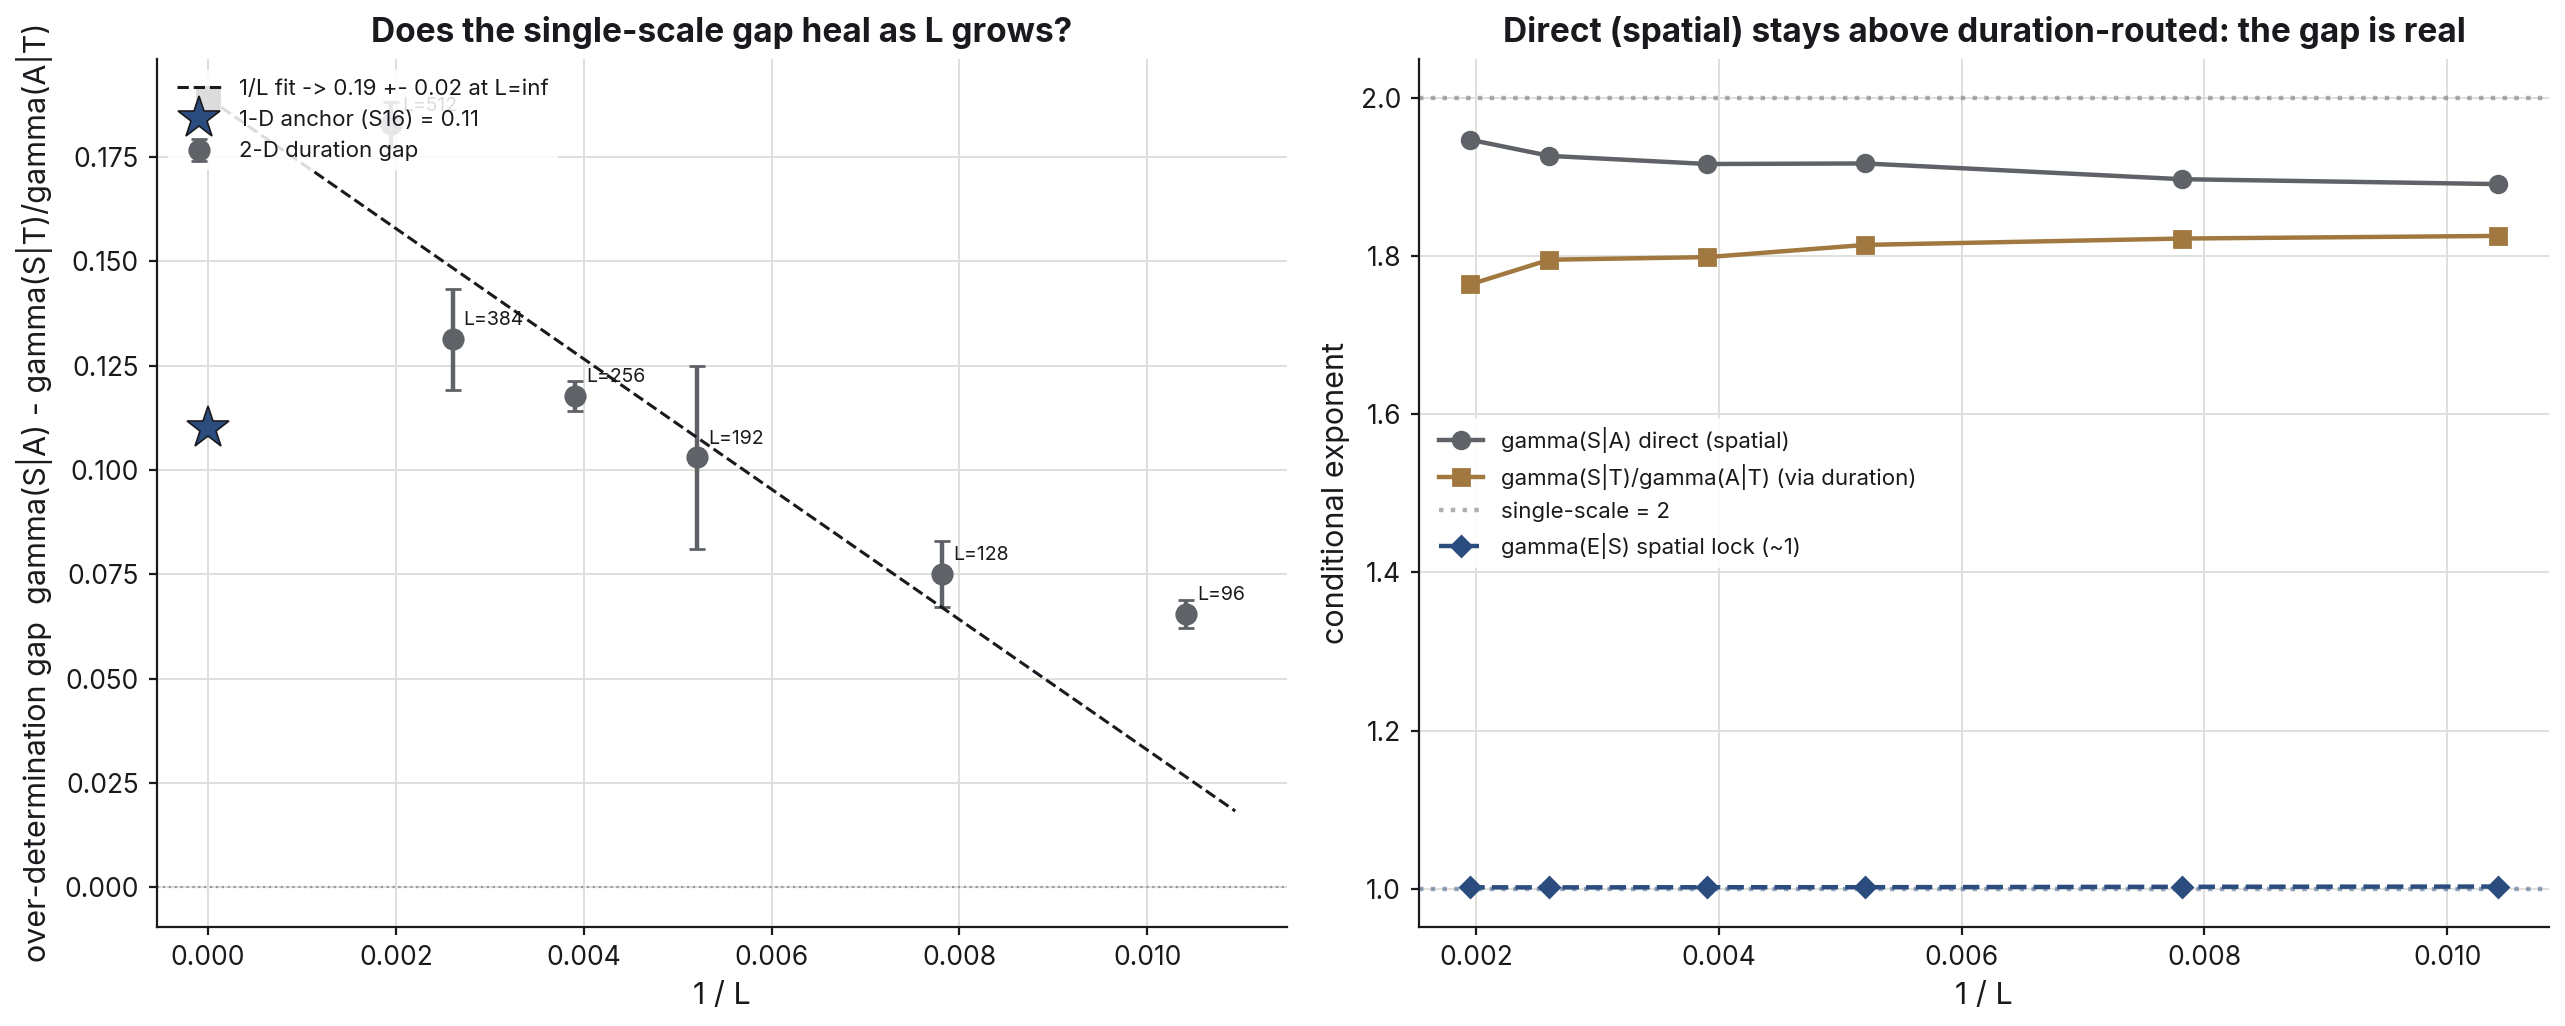
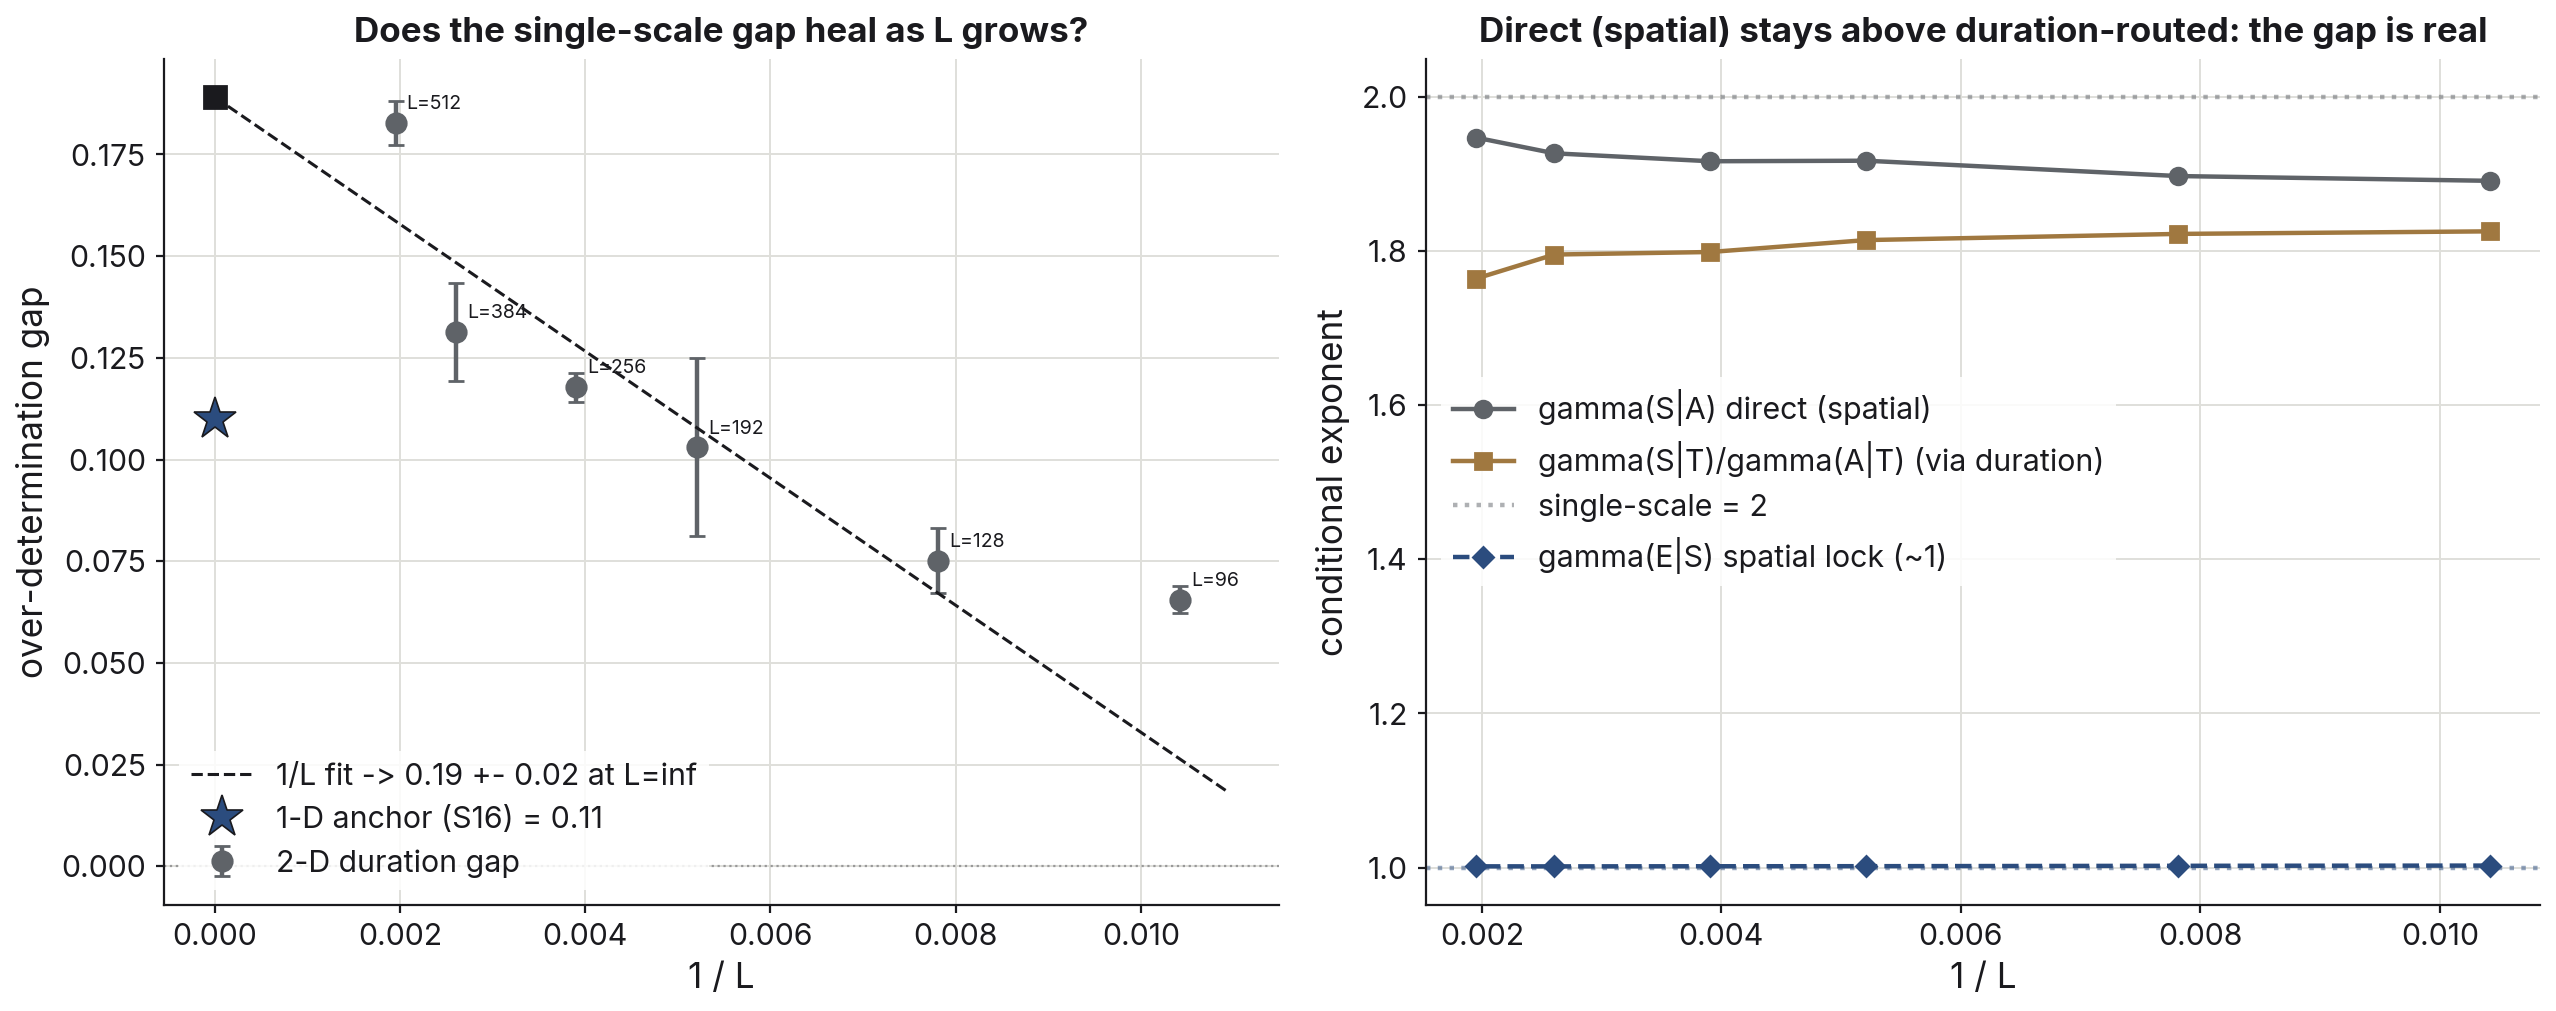
capstone: last two figures onto the site style -- the page is uniform
many_wrongs (Figure 1) fully re-rendered under figstyle at 1.45x/1.10x,
retiring the archive-fallback treatment: site palette replaces the June
default-matplotlib red/orange, text lands at 14px effective, and the
run reproduced F82 (slope -0.523 vs predicted -0.5). Its overlong
x-label is shortened (plot-only edit). duration_closure re-rendered at
1.15x with its legend moved off the L=512 point and the formula-length
y-label shortened to plain words (plot-only edits); S17 reproduced
(intercept 0.19 +- 0.02, anchor 0.11). Figure 1 caption drops the
now-false archive note. All 18 site figures now come off one style
sheet. Colophon and log synced (156.5 h / 40 days / 182 commits).

diff --git a/docs/index.html b/docs/index.html
@@ -62,7 +62,7 @@
   <div class="stat-strip" aria-label="Project statistics">
     <div class="stat"><span class="num">3</span><span class="label">systems</span></div>
     <div class="stat"><span class="num">123</span><span class="label">findings</span></div>
-    <div class="stat"><span class="num">156.0</span><span class="label">hours</span></div>
+    <div class="stat"><span class="num">156.5</span><span class="label">hours</span></div>
     <div class="stat"><span class="num">133</span><span class="label">scripts</span></div>
     <div class="stat"><span class="num">9</span><span class="label">self-tests</span></div>
     <div class="stat"><span class="num">10</span><span class="label">corrections</span></div>
@@ -85,7 +85,7 @@
 
   <figure class="wide">
     <img src="figures/many_wrongs_1.png" alt="Three panels. Left: cross-seed RMS heading error versus flock size N on log-log axes, falling along a one-over-square-root-of-N reference line with fitted slope minus 0.52. Middle: accuracy toward the true goal improving toward 1.0 as N grows. Right: heading error versus per-agent noise at N = 250, flat until roughly 60 degrees of per-agent error, then rising sharply.">
-    <figcaption><span class="figno">Figure 1.</span> <strong>Accuracy rises with group size.</strong> Heading error falls as 1/&radic;N (fitted slope &minus;0.52 against the predicted &minus;0.5, left), so accuracy improves as the flock grows (middle); the averaging holds until per-agent noise reaches a ceiling near &sigma; &asymp; 1.3 rad (right). Shown in its archive rendering: regenerating this figure's data exceeds the site's per-figure compute budget, so the committed original is kept.</figcaption>
+    <figcaption><span class="figno">Figure 1.</span> <strong>Accuracy rises with group size.</strong> Heading error falls as 1/&radic;N (fitted slope &minus;0.52 against the predicted &minus;0.5, left), so accuracy improves as the flock grows (middle); the averaging holds until per-agent noise reaches a ceiling near &sigma; &asymp; 1.3 rad (right).</figcaption>
   </figure>
 
   <p>Correlation is the one thing that beats it. Make the errors correlated, even slightly, and the improvement stops at a floor proportional to sigma times the square root of the correlation. No group size pushes through that floor. Misinformation is the same measurement run adversarially. Planted at random it is nearly harmless (heading accuracy 0.998 with half the flock misinformed), but a coordinated falsehood captures the group at exactly parity. <strong>What damages a collective estimator is the correlation of its errors, not the amount.</strong></p>
@@ -282,7 +282,7 @@
 
 <section id="colophon" class="colophon">
   <h2>Colophon</h2>
-  <p>123 documented findings (94 flocking, 22 sandpile, 7 earthquake) &middot; 156.0 logged hours over 40 research days &middot; 181 commits &middot; 150 figures &middot; 133 Python scripts. Built with NumPy, numba, and matplotlib. The performance engines (a 600&times; active-list sandpile engine, a 251&times; vectorized predator force) are validated bit-for-bit against their reference implementations, and every engine ships self-tests. Every figure on this page regenerates from a named script in the <a href="https://github.com/ninjahawk/swarmsim">repository</a>. Textbook: Paul Charbonneau, <em>Natural Complexity</em> (Princeton, 2017); flocking model from Silverberg et al., PRL 110, 228701 (2013). Findings, full-detail reports, and the day-by-day research log are in the repository. AI tools (Anthropic's Claude) were used as a coding and analysis assistant throughout, documented per session in the research log; the scientific decisions and interpretations are my own.</p>
+  <p>123 documented findings (94 flocking, 22 sandpile, 7 earthquake) &middot; 156.5 logged hours over 40 research days &middot; 182 commits &middot; 150 figures &middot; 133 Python scripts. Built with NumPy, numba, and matplotlib. The performance engines (a 600&times; active-list sandpile engine, a 251&times; vectorized predator force) are validated bit-for-bit against their reference implementations, and every engine ships self-tests. Every figure on this page regenerates from a named script in the <a href="https://github.com/ninjahawk/swarmsim">repository</a>. Textbook: Paul Charbonneau, <em>Natural Complexity</em> (Princeton, 2017); flocking model from Silverberg et al., PRL 110, 228701 (2013). Findings, full-detail reports, and the day-by-day research log are in the repository. AI tools (Anthropic's Claude) were used as a coding and analysis assistant throughout, documented per session in the research log; the scientific decisions and interpretations are my own.</p>
   <p>References:</p>
   <ol class="refs">
     <li>P. Charbonneau, <em>Natural Complexity: A Modeling Handbook</em>, Princeton University Press (2017).</li>

diff --git a/logs.html b/logs.html
@@ -415,8 +415,8 @@
       </tr>
       <tr data-date="2026-07-19">
         <td class="date-cell">2026-07-19</td>
-        <td class="hours-cell">1.50</td>
-        <td>Figure legibility pass on the live site: measured every figure's effective on-page text size, re-rendered the four smallest under the shared style with a new font-scale option (scripts untouched, numbers reproduced), inspected all eighteen at full resolution, widened the many-wrongs display, and fixed a doubled percent sign in a legend.</td>
+        <td class="hours-cell">2.00</td>
+        <td>Figure legibility and consistency pass on the live site: measured every figure's effective on-page text size, inspected all eighteen at full resolution, re-rendered six under the shared style with a new font-scale option (all numbers reproduced; script plot code touched only for two overlong labels and one legend position), and brought the last archive-styled figure onto the site palette.</td>
       </tr>
     </tbody>
     <tfoot>
@@ -607,7 +607,7 @@
     },
     {
       date: "2026-07-19",
-      body: "A short follow-up day. Yesterday's teaser rebuild set a legibility bar, so today I measured the whole page against it: for each of the eighteen figures, how large does its base 11-point type actually land on screen at the width the page displays it? Most figures sit at a comfortable 12.5 to 20 pixels. Three fell short of 12.\n\nThe two worst were casualties of their own native width. The filament-geometry centerpiece and the typical-versus-tail fattening figure render at 14.8 and 15.8 inches across, which scaled their on-page text down to about 10 pixels. The shared figure style gained a font-scale option settable from the environment, defaulting to exactly the old behavior, and both figures were re-rendered through the same untouched-script harness at 1.22x and 1.40x. It took three tries: the first scale-up collided the long panel titles, so titles now scale separately from body text. Both re-runs recomputed their measurements from scratch and reproduced the findings' numbers, the mass-radius dimensions 1.02 against BTW's 2.01, and the mean and median area growth slopes 0.99 and 0.90. The third short figure, the many-wrongs scaling that keeps its committed rendering under the compute-budget rule, needed no computation at all: displaying it at the wide figure width instead of column width takes its text from 10.8 to 15.9 pixels. A full-resolution pass through the remaining figures turned up no other defects, and the two borderline cases just above the cutoff, the 1-D anchor and the stochastic-split figure, got the same re-render treatment at 1.2x, again reproducing their findings' numbers.\n\nOne two-character repair along the way: the fattening figure's legend had read 'bottom 90%% area' with a doubled percent sign since it was first drawn in June, a printf escape left in a plain string. It reads correctly now. The run logs the re-renders overwrote were restored from version control, as in the original render session. Claude ran the audit and the renders; the calls are mine."
+      body: "A short follow-up day. Yesterday's teaser rebuild set a legibility bar, so today I measured the whole page against it: for each of the eighteen figures, how large does its base 11-point type actually land on screen at the width the page displays it? Most figures sit at a comfortable 12.5 to 20 pixels. Three fell short of 12.\n\nThe two worst were casualties of their own native width. The filament-geometry centerpiece and the typical-versus-tail fattening figure render at 14.8 and 15.8 inches across, which scaled their on-page text down to about 10 pixels. The shared figure style gained a font-scale option settable from the environment, defaulting to exactly the old behavior, and both figures were re-rendered through the same untouched-script harness at 1.22x and 1.40x. It took three tries: the first scale-up collided the long panel titles, so titles now scale separately from body text. Both re-runs recomputed their measurements from scratch and reproduced the findings' numbers, the mass-radius dimensions 1.02 against BTW's 2.01, and the mean and median area growth slopes 0.99 and 0.90. The third short figure, the many-wrongs scaling that keeps its committed rendering under the compute-budget rule, needed no computation at all: displaying it at the wide figure width instead of column width takes its text from 10.8 to 15.9 pixels. A full-resolution pass through the remaining figures turned up no other defects, and the two borderline cases just above the cutoff, the 1-D anchor and the stochastic-split figure, got the same re-render treatment at 1.2x, again reproducing their findings' numbers.\n\nOne two-character repair along the way: the fattening figure's legend had read 'bottom 90%% area' with a doubled percent sign since it was first drawn in June, a printf escape left in a plain string. It reads correctly now. The run logs the re-renders overwrote were restored from version control, as in the original render session.\n\nThe day's last stretch closed the two stragglers. The many-wrongs figure had kept its June rendering under the plan's fifteen-minute compute rule, and it was the one figure still wearing default matplotlib colors against the page's palette. With the machine idle the rule had outlived its purpose, so the full re-render ran: about an hour per pass, and it took three, since the first at default scale put the on-page text back under ten pixels and the second ran its longest axis label off the canvas edge, so that label is shorter now. The final version matches the page, lands its text at 14 pixels, and reproduces the scaling slope, 0.523 against the predicted 0.5. The duration-closure figure got its two blemishes fixed in the same spirit: the legend that covered the L=512 point, the most important point in its panel, moved to the empty corner, and the formula-length axis label became plain over-determination gap. Its re-run reproduced the S17 numbers exactly. Every figure on the page now comes off one style sheet, and the archive-rendering note in the first figure's caption is gone because it no longer applies. Claude ran the audits and the renders; the calls are mine."
     }
   ];
 

diff --git a/sandpile/duration_closure.py b/sandpile/duration_closure.py
@@ -306,9 +306,9 @@ def _make_figure(Ls, gaps, ses, comps, eslock, intercept, slope_fit, icpt_se):
         ax[0].annotate("L=%d" % L, (x, y), fontsize=7,
                        textcoords="offset points", xytext=(4, 5))
     ax[0].set_xlabel("1 / L")
-    ax[0].set_ylabel("over-determination gap  gamma(S|A) - gamma(S|T)/gamma(A|T)")
+    ax[0].set_ylabel("over-determination gap")
     ax[0].set_title("Does the single-scale gap heal as L grows?")
-    ax[0].legend(fontsize=8, loc="upper left")
+    ax[0].legend(loc="lower left")
 
     # ---- (1) the components + spatial lock, to show WHY the gap persists ----
     sa = np.array([comps[L]['SA'] for L in Ls])
@@ -322,7 +322,7 @@ def _make_figure(Ls, gaps, ses, comps, eslock, intercept, slope_fit, icpt_se):
     ax[1].set_xlabel("1 / L")
     ax[1].set_ylabel("conditional exponent")
     ax[1].set_title("Direct (spatial) stays above duration-routed: the gap is real")
-    ax[1].legend(fontsize=8, loc="center left")
+    ax[1].legend(loc="center left")
 
     fig.tight_layout()
     p = os.path.join(FIGDIR, "sandpile_duration_closure.png")

diff --git a/collective/many_wrongs.py b/collective/many_wrongs.py
@@ -185,7 +185,7 @@ ax.set_ylim(0, 1.05); ax.grid(alpha=0.3); ax.legend(fontsize=9)
 ax = axes[2]
 rms2 = [res2[sg][0] for sg in SIGMA_VALS]
 ax.plot([np.degrees(s) for s in SIGMA_VALS], rms2, 'o-', lw=2, color='darkorange')
-ax.set_xlabel('per-agent preferred-direction error sigma_pref (deg)')
+ax.set_xlabel('per-agent direction error sigma_pref (deg)')
 ax.set_ylabel('cross-seed RMS heading error (deg)')
 ax.set_title('Exp2: error vs sigma_pref at N=%d' % N_FIX)
 ax.grid(alpha=0.3)